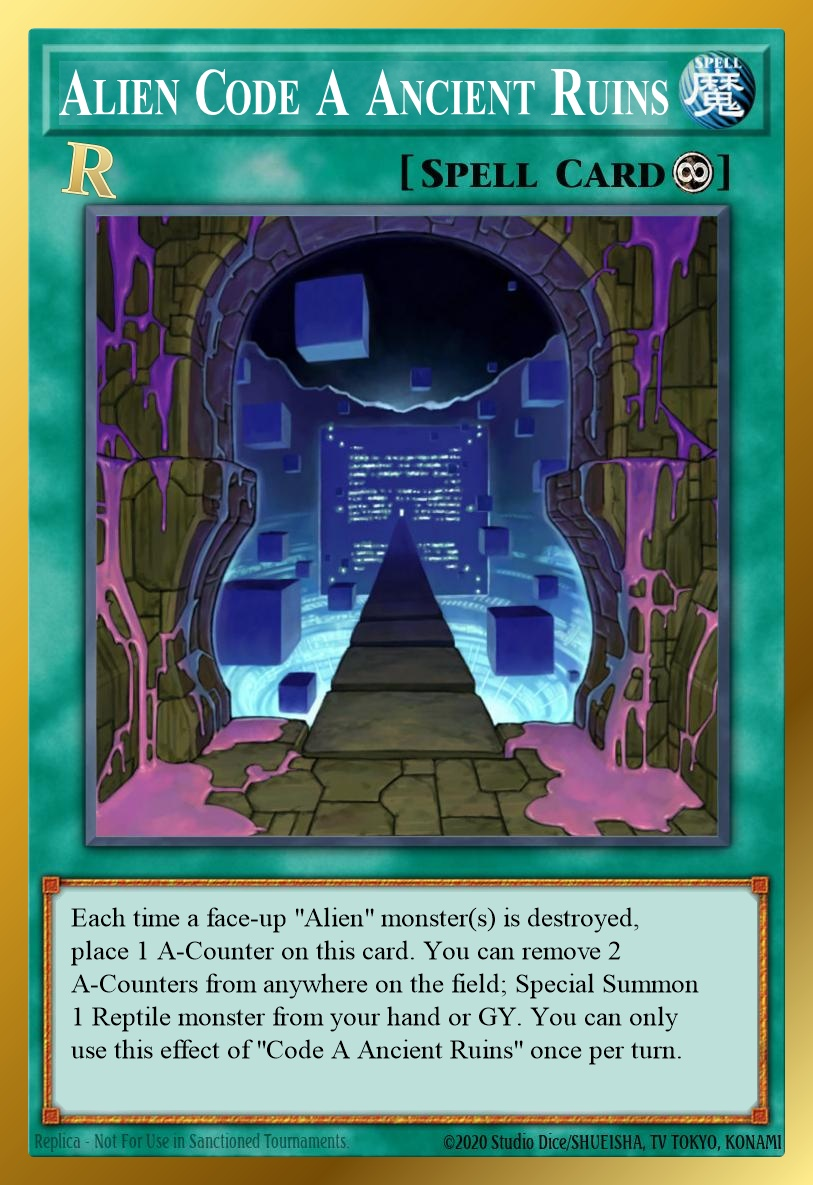
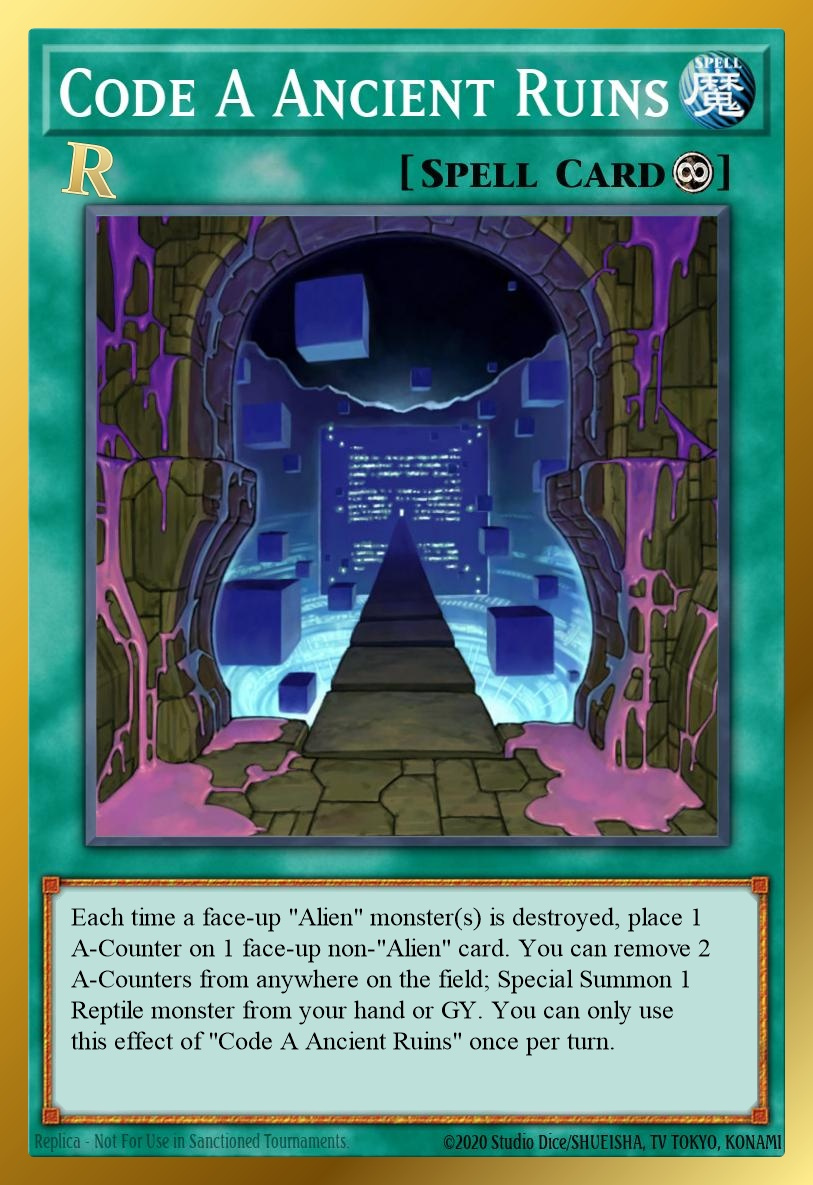
Make 'Code A Ancient Ruins' a non-Alien card again

Changed region(s): [[0.0923, 0.7494, 0.861, 0.9055], [0.0615, 0.0312, 0.8303, 0.1249]]

diff --git a/Redux/scripts/build-cards-cdb.js b/Redux/scripts/build-cards-cdb.js
@@ -8,7 +8,6 @@ const blackLusterSoldierPasscodes = [72989439, 72989440];
 const alienSpellTrapPasscodes = [
   73262676, // "A" Cell Scatter Burst
   17490535, // Alien Brain
-  99342953, // Code A Ancient Ruins
   24082387, // Crop Circles
   21768554, // Mass Hypnosis
   53291093, // Mysterious Triangle
@@ -188,11 +187,12 @@ module.exports = function buildCardsDb({ reduxRoot }) {
       96875080,
     );
   const codeAAncientRuinsTextResult = db
-    .prepare("UPDATE texts SET name = ?, desc = ?, str1 = ? WHERE id = ?")
+    .prepare("UPDATE texts SET name = ?, desc = ?, str1 = ?, str2 = ? WHERE id = ?")
     .run(
-      "Alien Code A Ancient Ruins",
-      'Each time a face-up "Alien" monster(s) is destroyed, place 1 A-Counter on this card. You can remove 2 A-Counters from anywhere on the field; Special Summon 1 Reptile monster from your hand or GY. You can only use this effect of "Code A Ancient Ruins" once per turn.',
+      "Code A Ancient Ruins",
+      'Each time a face-up "Alien" monster(s) is destroyed, place 1 A-Counter on 1 face-up non-"Alien" card. You can remove 2 A-Counters from anywhere on the field; Special Summon 1 Reptile monster from your hand or GY. You can only use this effect of "Code A Ancient Ruins" once per turn.',
       "Special Summon 1 Reptile monster from your hand or GY",
+      'Place 1 A-Counter on 1 face-up non-"Alien" card',
       99342953,
     );
   const cropCirclesTextResult = db

diff --git a/Redux/scripts/card-name-changes.js b/Redux/scripts/card-name-changes.js
@@ -5,7 +5,6 @@ module.exports = new Set([
   68638985, // Frog the Jam (was Slime Toad / FROG THE JAM)
   73262676, // Alien "A" Cell Scatter Burst
   97697678, // Alien Mothership Musk'I
-  99342953, // Alien Code A Ancient Ruins
   96875080, // Alien Orbital Bombardment
   24082387, // Alien Crop Circles
   21768554, // Alien Mass Hypnosis

diff --git a/README.md b/README.md
@@ -75,7 +75,7 @@ Redux Limits: `0` = forbidden; `1` = limited; `2` = semi-limited; `3` = unlimite
 | --- | --- |
 | `3` [Alien "A" Cell Scatter Burst](https://yugioh.fandom.com/wiki/%22A%22_Cell_Scatter_Burst) | ⬆ Counts as Alien; Tribute Alien; A-Counters on non-Alien cards; can draw; shared Alien GY effect summons from hand |
 | `3` [Alien Ammonite](https://yugioh.fandom.com/wiki/Alien_Ammonite) | ⬆ Summon from hand/GY trigger; once per turn; summoned monster stays |
-| `3` [Alien Code A Ancient Ruins](https://yugioh.fandom.com/wiki/Code_A_Ancient_Ruins) | 🔄 Counts as Alien; hard once per turn; summons Reptile from hand/GY |
+| `3` [Code A Ancient Ruins](https://yugioh.fandom.com/wiki/Code_A_Ancient_Ruins) | 🔄 Places A-Counters on non-Alien cards; hard once per turn; summons Reptile from hand/GY |
 | `3` [Alien Cosmic Horror Gangi'el](https://yugioh.fandom.com/wiki/Cosmic_Horror_Gangi%27el) | 🔄 Counts as Alien; hand summon with exactly 3 banished Aliens; hard once per turn bounce; shares high-level Alien control limit |
 | `3` [Cosmic Fortress Gol'gar](https://yugioh.fandom.com/wiki/Cosmic_Fortress_Gol%27gar) | 🔄 1 Reptile + 1+ non-Tuner monsters |
 | `1` [Alien Crop Circles](https://yugioh.fandom.com/wiki/Crop_Circles) | 🔄 Counts as Alien; flips cards face-down; shared Alien GY effect searches card |
@@ -294,7 +294,7 @@ Redux Limits: `0` = forbidden; `1` = limited; `2` = semi-limited; `3` = unlimite
 | [Megamorph](https://yugioh.fandom.com/wiki/Megamorph) | 2 | `2` | 3 |  |
 | [Formula Synchron](https://yugioh.fandom.com/wiki/Formula_Synchron) | 3 | `2` | 1 |  |
 | [Pot of Avarice](https://yugioh.fandom.com/wiki/Pot_of_Avarice) | 3 | `2` | 1 |  |
-| [Alien Code A Ancient Ruins](https://yugioh.fandom.com/wiki/Code_A_Ancient_Ruins) | 3 | `2` | 3 | 🔄 |
+| [Code A Ancient Ruins](https://yugioh.fandom.com/wiki/Code_A_Ancient_Ruins) | 3 | `2` | 3 | 🔄 |
 | [Dupe Frog](https://yugioh.fandom.com/wiki/Dupe_Frog) | 3 | `3` | 3 | ⬇ |
 | [Alien Crop Circles](https://yugioh.fandom.com/wiki/Crop_Circles) | 3 | `1` | 3 | 🔄 |
 | [Dimensional Fissure](https://yugioh.fandom.com/wiki/Dimensional_Fissure) | 3 | `1` | 3 |  |
